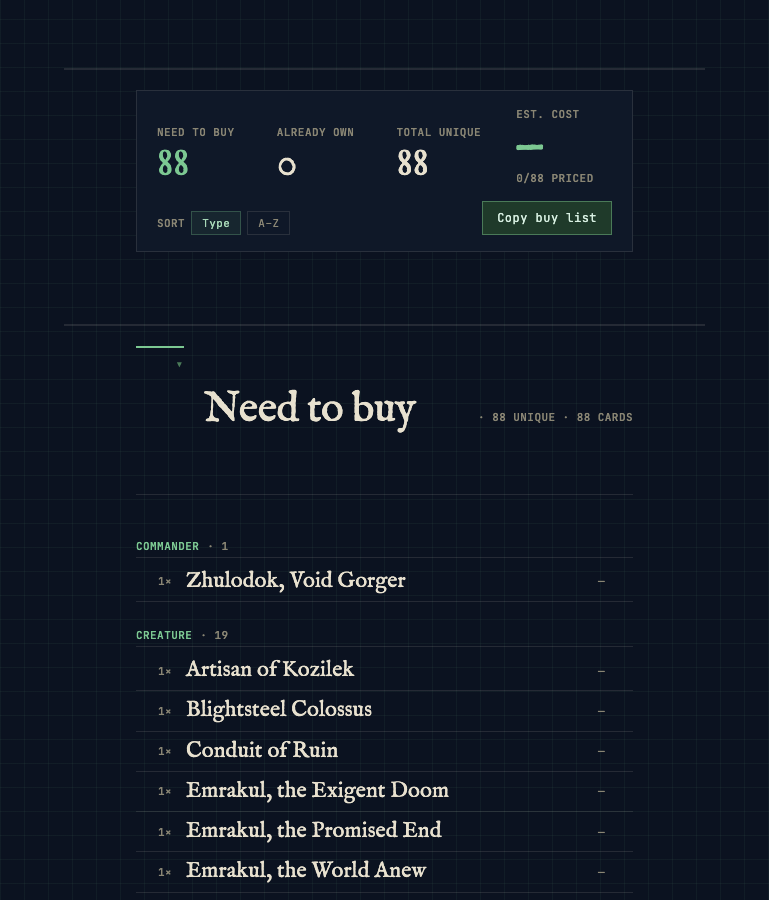
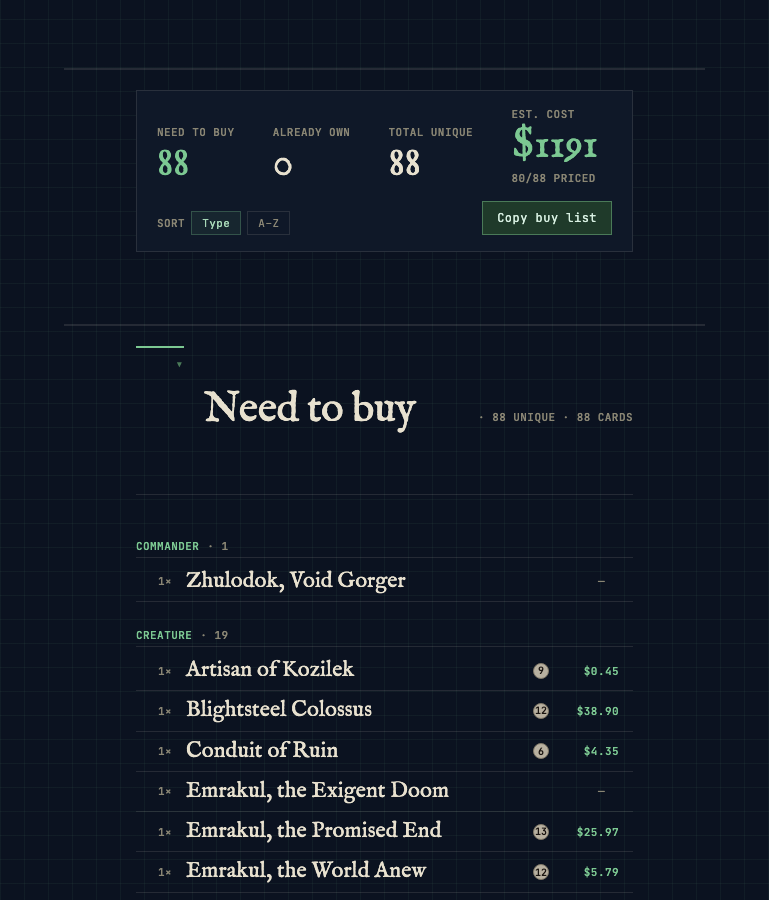
fix(web): DEC-1017 Shopping summary steps down at 1080 px
Review round one (DEC-1044, verdict ba06cc6d):

- D1: with every deck and the brewing decks selected and nearly all
  priced, the stats and the actions need up to 1074px on one row before
  the copy button and the A-Z chip each read on one line. The rule moves
  from 980px to 1080px.
- N14: the four stat columns are sized to their content (`auto`), so
  "$16261" no longer runs past the summary's content edge at 769px.
- D2: the Codex comment states 940px (chip labels on one line); the
  950px rule is unchanged.

Retakes after-769-shopping-summary.png on the new head, prices in.

diff --git a/web/src/styles/styles.css b/web/src/styles/styles.css
@@ -3049,10 +3049,12 @@ em { font-style: italic; color: var(--gv1-gold); }
 @media (min-width: 769px) and (max-width: 990px) {
   .gv1-engine-panel-head { flex-wrap: wrap; gap: 8px 16px; }
 }
-/* Shopping summary: four stats and the actions on one row need up to 977px
-   (every deck selected, nearly all priced). The actions take their own row. */
-@media (max-width: 980px) {
-  .gv1-shop-summary { grid-template-columns: repeat(4, minmax(0, 1fr)); gap: 16px 24px; }
+/* Shopping summary: four stats and the actions on one row, with the copy
+   button and the A-Z chip on one line each, need up to 1074px (every deck and
+   the brewing decks selected, nearly all priced). The actions take their own
+   row. */
+@media (max-width: 1080px) {
+  .gv1-shop-summary { grid-template-columns: repeat(4, auto); gap: 16px 24px; }
   .gv1-shop-summary-actions {
     grid-column: 1 / -1;
     justify-self: stretch;
@@ -3064,8 +3066,8 @@ em { font-style: italic; color: var(--gv1-gold); }
 @media (max-width: 960px) {
   .gv1-wincons-grid { grid-template-columns: minmax(0, 1fr); }
 }
-/* Codex toolbar: sort and filter on one row need 926px, and 942px to stay
-   16px apart. */
+/* Codex toolbar: sort and filter on one row, each chip label on one line,
+   need 940px. At 951px the two halves are 11.6px apart. */
 @media (max-width: 950px) {
   .gv1-codex-toolbar { flex-wrap: wrap; gap: 8px 16px; }
 }
